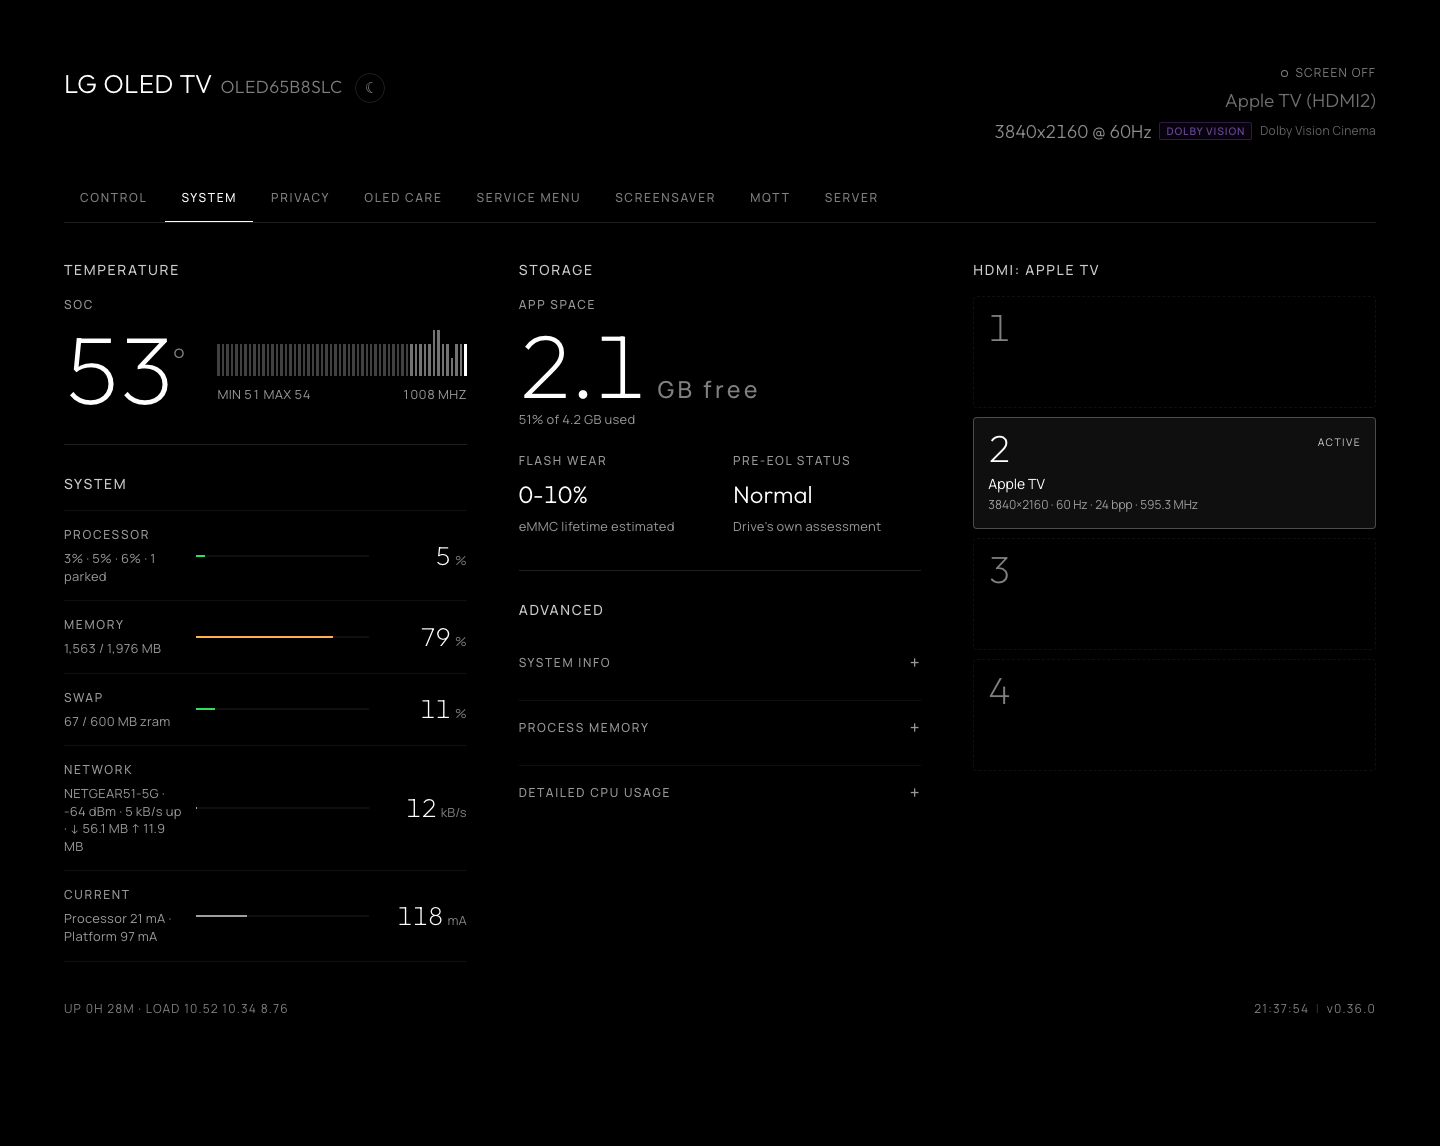
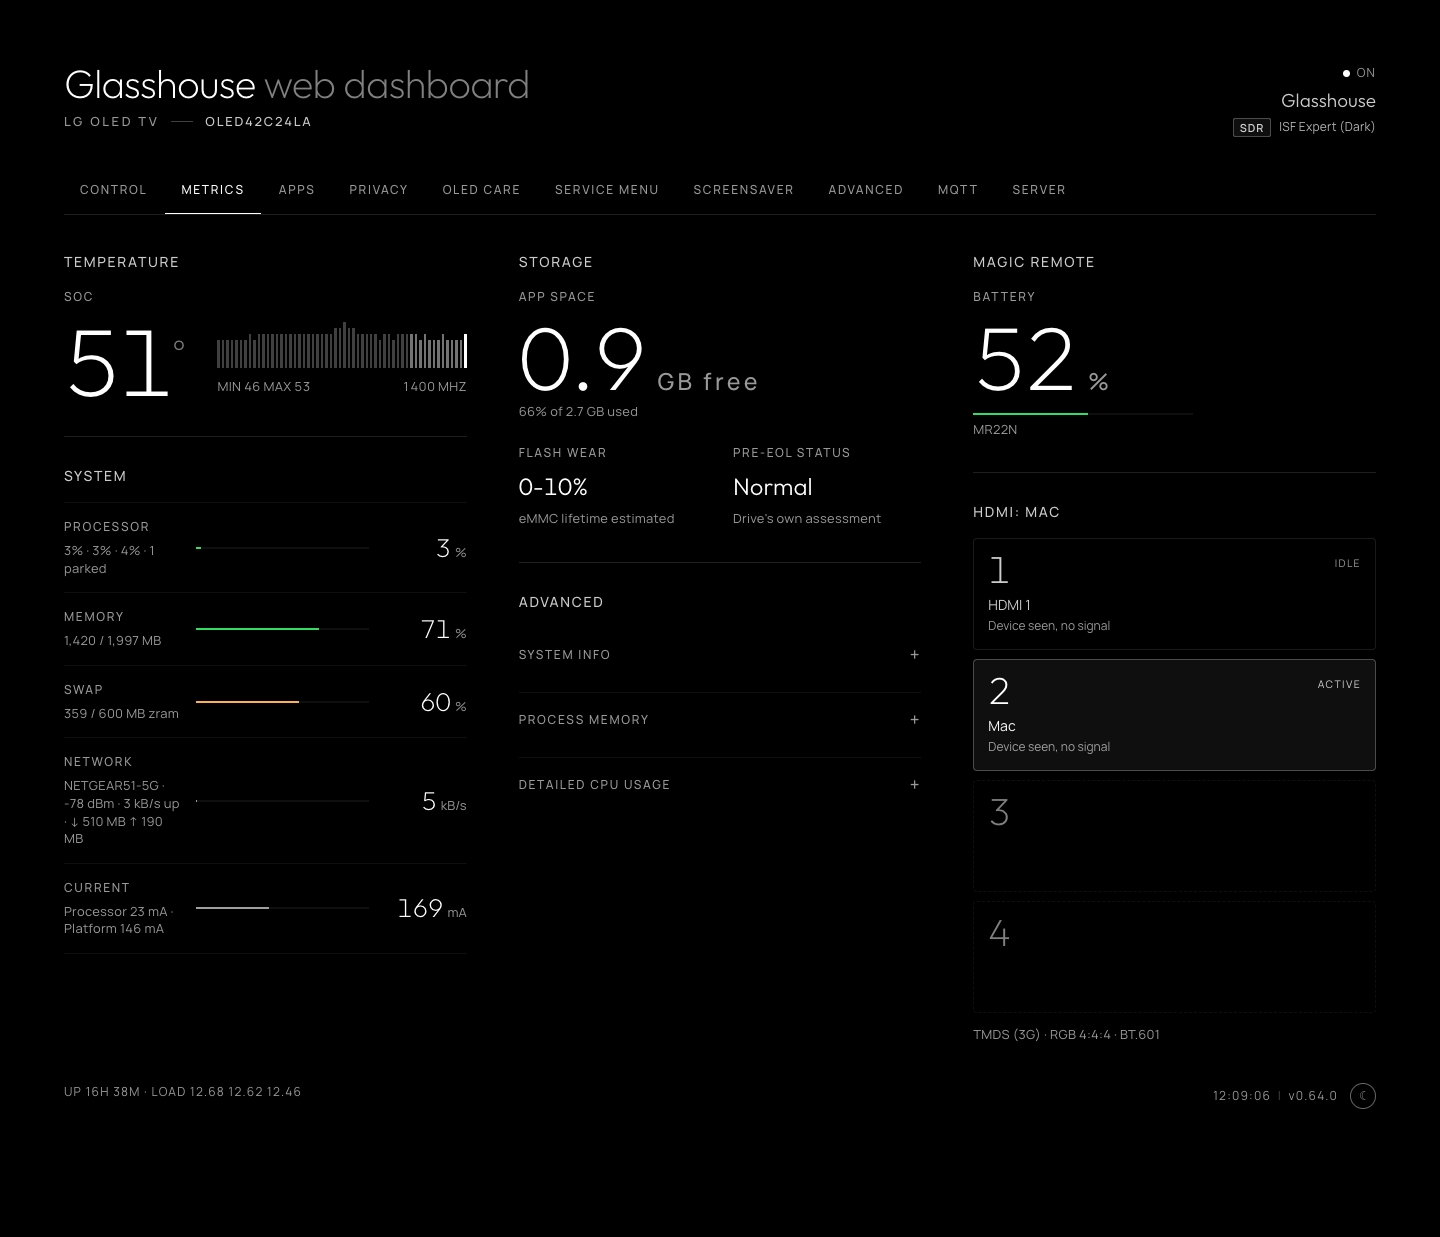
Refresh the README screenshots (#292)
Taken from 0.64.0 on an OLED42C24LA, in place of captures that predate
the Glasshouse header, the Metrics, Advanced and Server tabs, and the
Privacy overview. Advanced and Server gain screenshots of their own, and
the two cropped details move into the repository beside the rest.

diff --git a/README.md b/README.md
@@ -76,11 +76,11 @@ This project is intended to give a rooted webOS TV a useful local control surfac
 ### Web dashboard
 
 <p align="center">
-  <a href="docs/screenshots/dashboard.png"><img src="docs/screenshots/dashboard.png" alt="Metrics tab: SoC temperature, system readouts, storage and HDMI ports, dark theme (OLED65B8SLC)" width="440"></a>
+  <a href="docs/screenshots/dashboard.png"><img src="docs/screenshots/dashboard.png" alt="Metrics tab: SoC temperature, system readouts, storage, Magic Remote battery and HDMI ports, dark theme (OLED42C24LA)" width="440"></a>
   &nbsp;
-  <a href="docs/screenshots/dashboard-light.png"><img src="docs/screenshots/dashboard-light.png" alt="Control tab: panel, source, volume, playback, sleep timer and power, light theme (OLED65B8SLC)" width="440"></a>
+  <a href="docs/screenshots/dashboard-light.png"><img src="docs/screenshots/dashboard-light.png" alt="Control tab: panel, source, volume, playback, sleep timer and power, light theme (OLED42C24LA)" width="440"></a>
   <br>
-  <sub>System and Control tabs, shown in dark and light themes.</sub>
+  <sub>Metrics and Control tabs, shown in dark and light themes.</sub>
 </p>
 
 ### Home Assistant
@@ -121,6 +121,12 @@ From a browser you can navigate the TV, change inputs, control playback and volu
 
 The **Advanced** tab, `/?tab=advanced`, holds the TV's own settings that LG keeps several menus deep: Quick Boot, Wake-on-LAN, staying connected when off, the LG logo shown at power on and off, auto device detection, and the front lights. Auto device detection finds devices the TV can show on its Home Dashboard and control, from a set-top box to smart lights, plugs and switches; on newer TVs it does so by looking up every address on the home network each time the TV switches on, and switching it off stops those lookups. Each setting appears only on TVs that have it. On the TV itself they are under **System**.
 
+<p align="center">
+  <a href="docs/screenshots/advanced.png"><img src="docs/screenshots/advanced.png" alt="Advanced tab: Quick Boot, Stay connected when off with its nightly power-down hours, Wake-on-LAN, LG logo, auto device detection and the standby light" width="700"></a>
+  <br>
+  <sub>The TV's own settings, grouped as Power, Display, Devices and Front lights.</sub>
+</p>
+
 ### Telemetry and diagnostics
 
 The **Metrics** tab, `/?tab=metrics`, exposes information about what the TV is doing and what hardware it contains — most of which is absent from its own settings menu.
@@ -135,7 +141,7 @@ This is useful both for monitoring and for troubleshooting. You can see whether 
 * On demand: what is resident in memory, and which processes are using the processor right now.
 
 <p align="center">
-  <img width="432" alt="Metrics tab: processor, memory, swap, network and current draw readouts" src="https://github.com/user-attachments/assets/2e6cfe5a-c905-426e-8b4d-8f52d4f31c11" />
+  <img width="432" alt="Metrics tab: processor, memory, swap, network and current draw readouts" src="docs/screenshots/metrics-system.png" />
   <br>
   <sub>Metrics including processor, memory, swap and current draw.</sub>
 </p>
@@ -153,9 +159,9 @@ The **Apps** tab, `/?tab=apps`, gives you three different ways to manage softwar
 * **Available on TV and Web:** Manage apps from any browser or directly on the TV using the remote control in the on-TV dashboard app.
 
 <p align="center">
-  <a href="docs/screenshots/apps.png"><img src="docs/screenshots/apps.png" alt="Apps tab: installed applications with uninstall actions, and built-in system tiles with visibility toggles" width="700"></a>
+  <a href="docs/screenshots/apps.png"><img src="docs/screenshots/apps.png" alt="Apps tab: installed applications with uninstall actions, background services switched off, and saved web pages" width="700"></a>
   <br>
-  <sub>Installed applications, background services and built-in system apps.</sub>
+  <sub>Installed applications, background services and saved web pages.</sub>
 </p>
 
 ### Privacy and data collection
@@ -178,7 +184,7 @@ Two tiers are available:
 What ACR collects and what LG Ad Solutions does with it is set out in [What LG's ACR does](docs/ACR.md).
 
 <p align="center">
-  <a href="docs/screenshots/privacy.png"><img src="docs/screenshots/privacy.png" alt="Privacy tab: ad and telemetry blocker, advertising identifier, the data collection agreements grouped by subject with toggles, and what is running now" width="700"></a>
+  <a href="docs/screenshots/privacy.png"><img src="docs/screenshots/privacy.png" alt="Privacy tab: an overview of what is still on, then the ad and telemetry blocker, advertising identifier, the data collection agreements grouped by subject with toggles, and what is running now" width="700"></a>
   <br>
   <sub>Privacy controls, data agreements, advertising ID and LG telemetry blocking.</sub>
 </p>
@@ -201,7 +207,7 @@ The aim is not to encourage disabling OLED protections blindly. Instead, the das
 </p>
 
 <p align="center">
-  <img width="429" alt="Panel life: total power-on hours, panel maintenance and Pixel Refresher countdowns" src="https://github.com/user-attachments/assets/825ef48d-9560-474c-9d3e-7feb045724b5" />
+  <img width="400" alt="Panel life: total power-on hours, panel maintenance and Pixel Refresher countdowns" src="docs/screenshots/oledcare-panel.png" />
   <br>
   <sub>Panel life, maintenance and Pixel Refresher status.</sub>
 </p>
@@ -235,7 +241,7 @@ Each mode offers dim and bright variants, and visual elements continuously drift
 A firmware update restores the LG default.
 
 <p align="center">
-  <a href="docs/screenshots/screensaver.png"><img src="docs/screenshots/screensaver.png" alt="Screensaver tab: LG default, Clock, Starfield, Fireworks and Panel vitals, with a dim and bright toggle" width="700"></a>
+  <a href="docs/screenshots/screensaver.png"><img src="docs/screenshots/screensaver.png" alt="Screensaver tab: LG default, Clock, Starfield, Fireworks, Bokeh and Panel vitals, with brightness and a start button beside them" width="700"></a>
   <br>
   <sub>Built-in screen saver choices, including the panel-vitals display.</sub>
 </p>
@@ -279,6 +285,12 @@ The **Server** tab, `/?tab=server`, shows the installed version, whether a newer
 **Check daily** looks on its own and lets Home Assistant offer the update.
 
 It also adds or removes [the app on the TV's home screen](#the-dashboard-on-the-tv).
+
+<p align="center">
+  <a href="docs/screenshots/server.png"><img src="docs/screenshots/server.png" alt="Server tab: version and daily check beside the update buttons, blocking the TV's own software updates, the dashboard app on the TV, and the theme for this browser" width="700"></a>
+  <br>
+  <sub>Server and TV software updates, the dashboard app and the theme.</sub>
+</p>
 
 [Updating](#updating) covers installs from before the tab existed.
 
